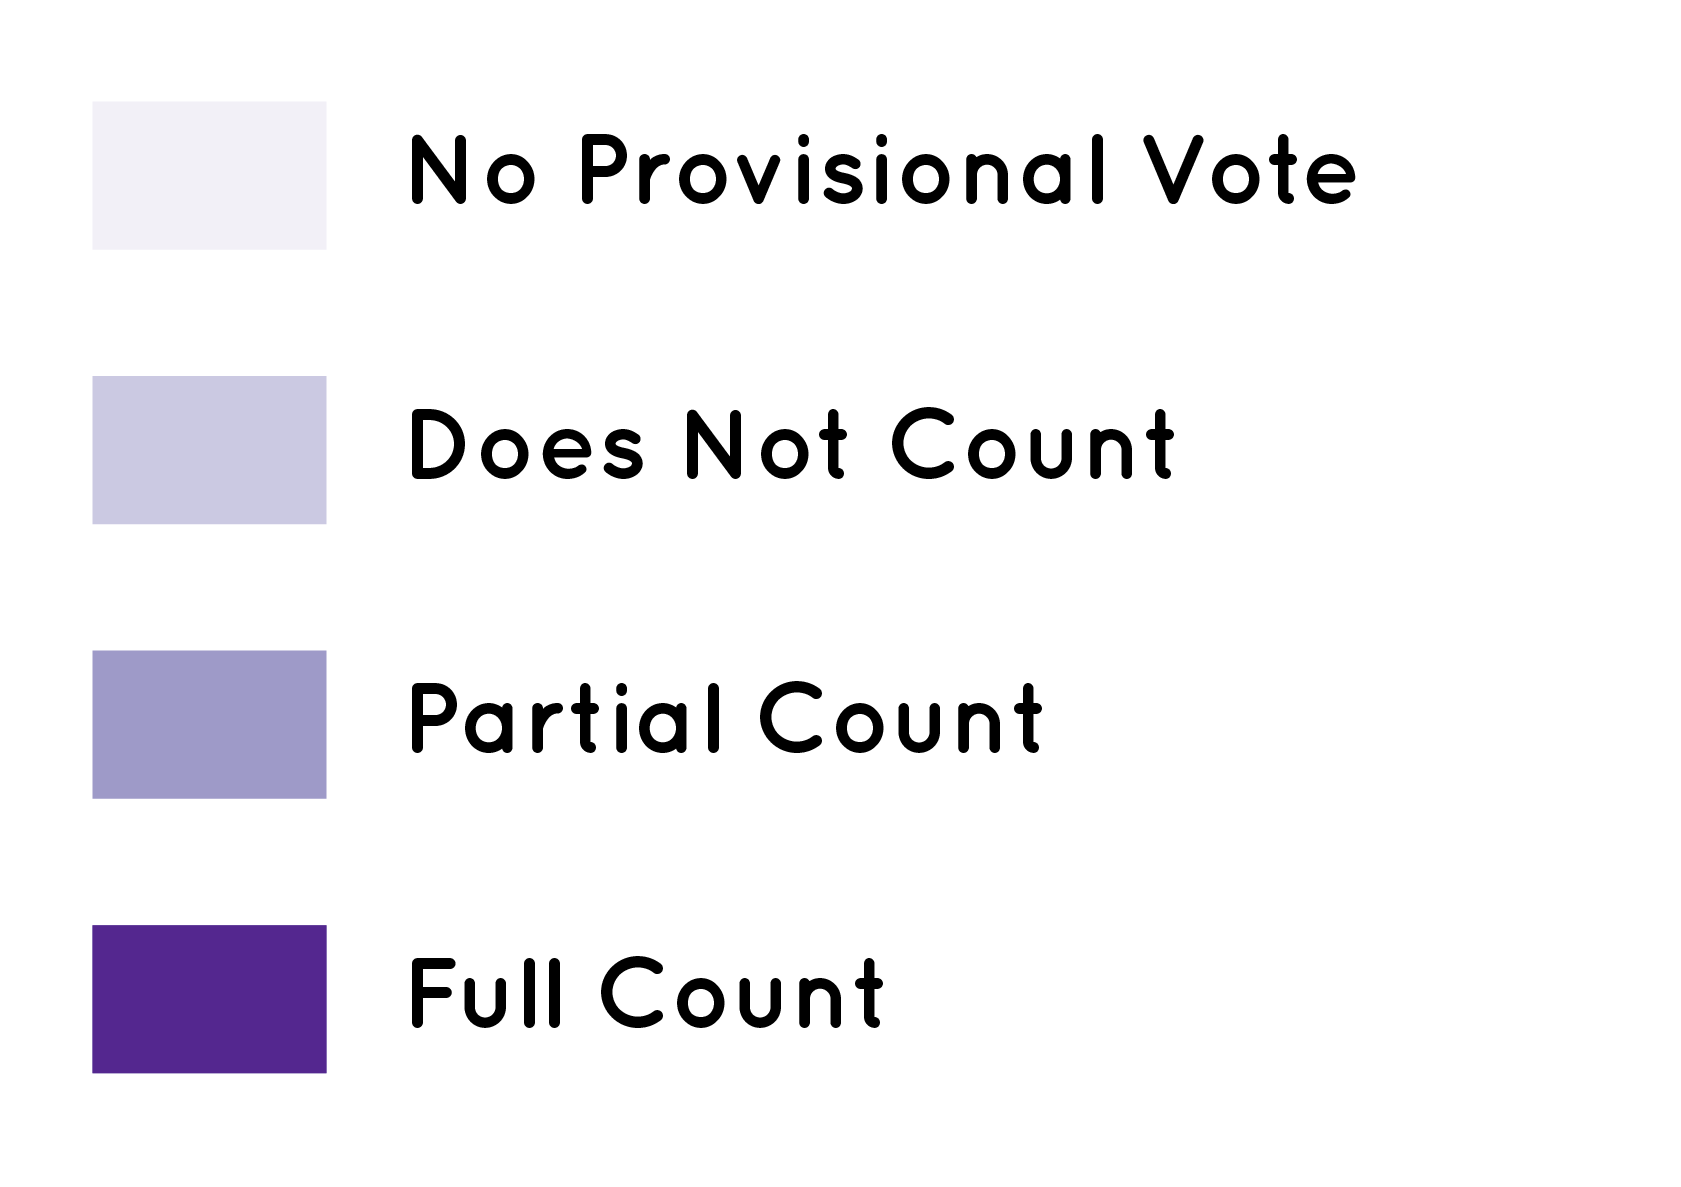
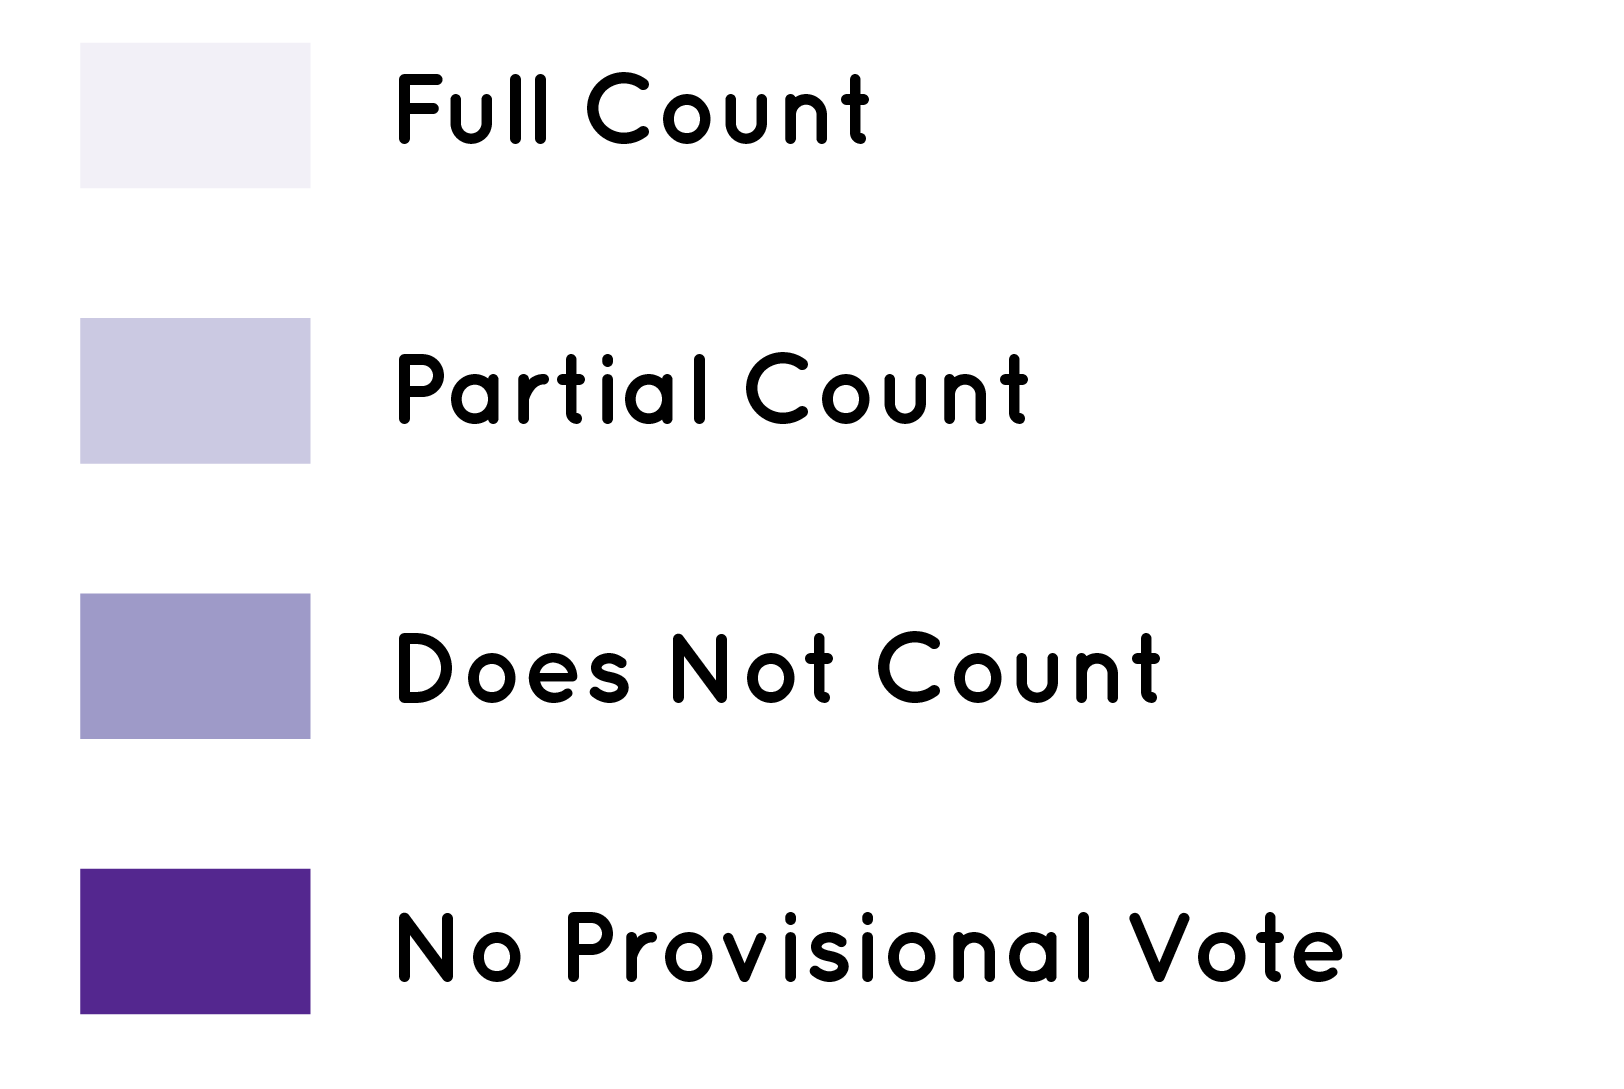
Reexpressed Colors
Just the colors, nothing more

diff --git a/js/main.js b/js/main.js
@@ -2,7 +2,7 @@
 window.onload = setMap();
 
 // variables for data join from csv
-var attrArray = ["Online Reg Implement Yr", "Early Voting Status", "Voter ID Requirement", "Election Day Vote Centers", "Rights Lost to Felons", "Incorrectly Cast Provisional Vote", "Rating", "Grade"];
+var attrArray = ["OnlineRegImplementYr", "EarlyVotingStatus", "VoterIDRequirement", "ElectionDayVoteCenters", "RightsLosttoFelons", "IncorrectlyCastProvisionalVote", "Rating", "Grade"];
 var expressed = attrArray[7]; //initial attribute
 var rectA;
 var rectB;
@@ -100,16 +100,6 @@ function joinData(usaStates, csvData){
 
 //function to create color scale generator
 function findFill(data){
-
-    // // DARK BLUE COLOR SCALE
-    // var colorClasses = [
-    //     "#7da1db",
-    //     "#5c7aaa",
-    //     "#2854a5",
-    //     "#1d2255",
-    //     "#0d1130"
-    // ];
-
     // PURPLE COLOR SCALE
     colorClasses = [
         "#f2f0f7",
@@ -119,36 +109,77 @@ function findFill(data){
         "#54278f"
     ];
 
-    // RED COLOR SCALE
-    // var colorClasses = [
-    //     "#fee5d9",
-    //     "#fcae91",
-    //     "#fb6a4a",
-    //     "#de2d26",
-    //     "#a50f15"
-    // ];
-
-    // GREEN COLOR SCALE
-    // var colorClasses = [
-    //     "#edf8e9",
-    //     "#bae4b3",
-    //     "#74c476",
-    //     "#31a354",
-    //     "#006d2c"
-    // ];
+    // if(!isNaN(data.properties.OnlineRegImplementYr)) {
+    //   return colorClasses[0];
+    // } else {
+    //   return colorClasses[4];
+    // }
 
 
-    if(data.properties.Grade == "A") {
+    // if(data.properties.EarlyVotingStatus == "Early Voting") {
+    //   return colorClasses[0];
+    // } else if(data.properties.EarlyVotingStatus == "In-person absentee") {
+    //   return colorClasses[1];
+    // } else if(data.properties.EarlyVotingStatus =="All-mail with EV options") {
+    //   return colorClasses[2];
+    // } else if(data.properties.EarlyVotingStatus =="Enacted EV, not implemented"){
+    //   return colorClasses[3];
+    // } else {
+    //   return colorClasses[4];
+    // }
+
+    // if(data.properties.VoterIDRequirement == "None") {
+    //   return colorClasses[0];
+    // } else if(data.properties.VoterIDRequirement == "ID Requested (General)") {
+    //   return colorClasses[1];
+    // } else if(data.properties.VoterIDRequirement =="Photo ID Requested") {
+    //   return colorClasses[2];
+    // } else if(data.properties.VoterIDRequirement =="Strict Proof of Identity"){
+    //   return colorClasses[3];
+    // } else {
+    //   return colorClasses[4];
+    // }
+
+    // if(data.properties.ElectionDayVoteCenters == "Yes") {
+    //   return colorClasses[0];
+    // } else if(data.properties.ElectionDayVoteCenters =="Sometimes") {
+    //   return colorClasses[2];
+    // } else {
+    //   return colorClasses[4];
+    // }
+
+    // if(data.properties.RightsLosttoFelons == "Never") {
+    //   return colorClasses[0];
+    // } else if(data.properties.RightsLosttoFelons == "When Incarcerated") {
+    //   return colorClasses[1];
+    // } else if(data.properties.RightsLosttoFelons =="Until Sentence Complete") {
+    //   return colorClasses[2];
+    // } else {
+    //   return colorClasses[4];
+    // }
+
+    if(data.properties.IncorrectlyCastProvisionalVote == "Full Count") {
       return colorClasses[0];
-    } else if(data.properties.Grade == "B") {
+    } else if(data.properties.IncorrectlyCastProvisionalVote == "Partial Count") {
       return colorClasses[1];
-    } else if(data.properties.Grade =="C") {
+    } else if(data.properties.IncorrectlyCastProvisionalVote =="Does Not Count") {
       return colorClasses[2];
-    } else if(data.properties.Grade =="D"){
-      return colorClasses[3];
     } else {
       return colorClasses[4];
     }
+
+
+    // if(data.properties.Grade == "A") {
+    //   return colorClasses[0];
+    // } else if(data.properties.Grade == "B") {
+    //   return colorClasses[1];
+    // } else if(data.properties.Grade =="C") {
+    //   return colorClasses[2];
+    // } else if(data.properties.Grade =="D"){
+    //   return colorClasses[3];
+    // } else {
+    //   return colorClasses[4];
+    // }
 
 };
 
@@ -300,15 +331,15 @@ function setLabel(props){
 
   //Update retrieve panel inner HTML with hover
   var textBox = props.name +"<br/>" + "Grade: " + props.Grade + "<br/>";
-  if(isNaN(props["Online Reg Implement Yr"])) {
+  if(isNaN(props["OnlineRegImplementYr"])) {
     textBox+= "Online Registration: No<br/>";
   } else {
     textBox+= "Online Registration: Yes<br/>";
   };
-  textBox+="Early Voting Status: " + props["Early Voting Status"] + "<br/>" + "Voter ID Requirement: " + props["Voter ID Requirement"] + "<br/>";
-  textBox+= "Election Day Vote Centers: " + props["Election Day Vote Centers"] + "<br/>";
-  textBox+= "Rights Lost to Felons: " + props["Rights Lost to Felons"] + "<br/>";
-  textBox+= "Incorrectly Cast Provisional Vote: " + props["Incorrectly Cast Provisional Vote"] + "<br/>";
+  textBox+="Early Voting Status: " + props["EarlyVotingStatus"] + "<br/>" + "Voter ID Requirement: " + props["VoterIDRequirement"] + "<br/>";
+  textBox+= "Election Day Vote Centers: " + props["ElectionDayVoteCenters"] + "<br/>";
+  textBox+= "Rights Lost to Felons: " + props["RightsLosttoFelons"] + "<br/>";
+  textBox+= "Incorrectly Cast Provisional Vote: " + props["IncorrectlyCastProvisionalVote"] + "<br/>";
 
   document.getElementById("retrieveTitle").innerHTML=textBox;
   d3.select("#retrieveTitle")
